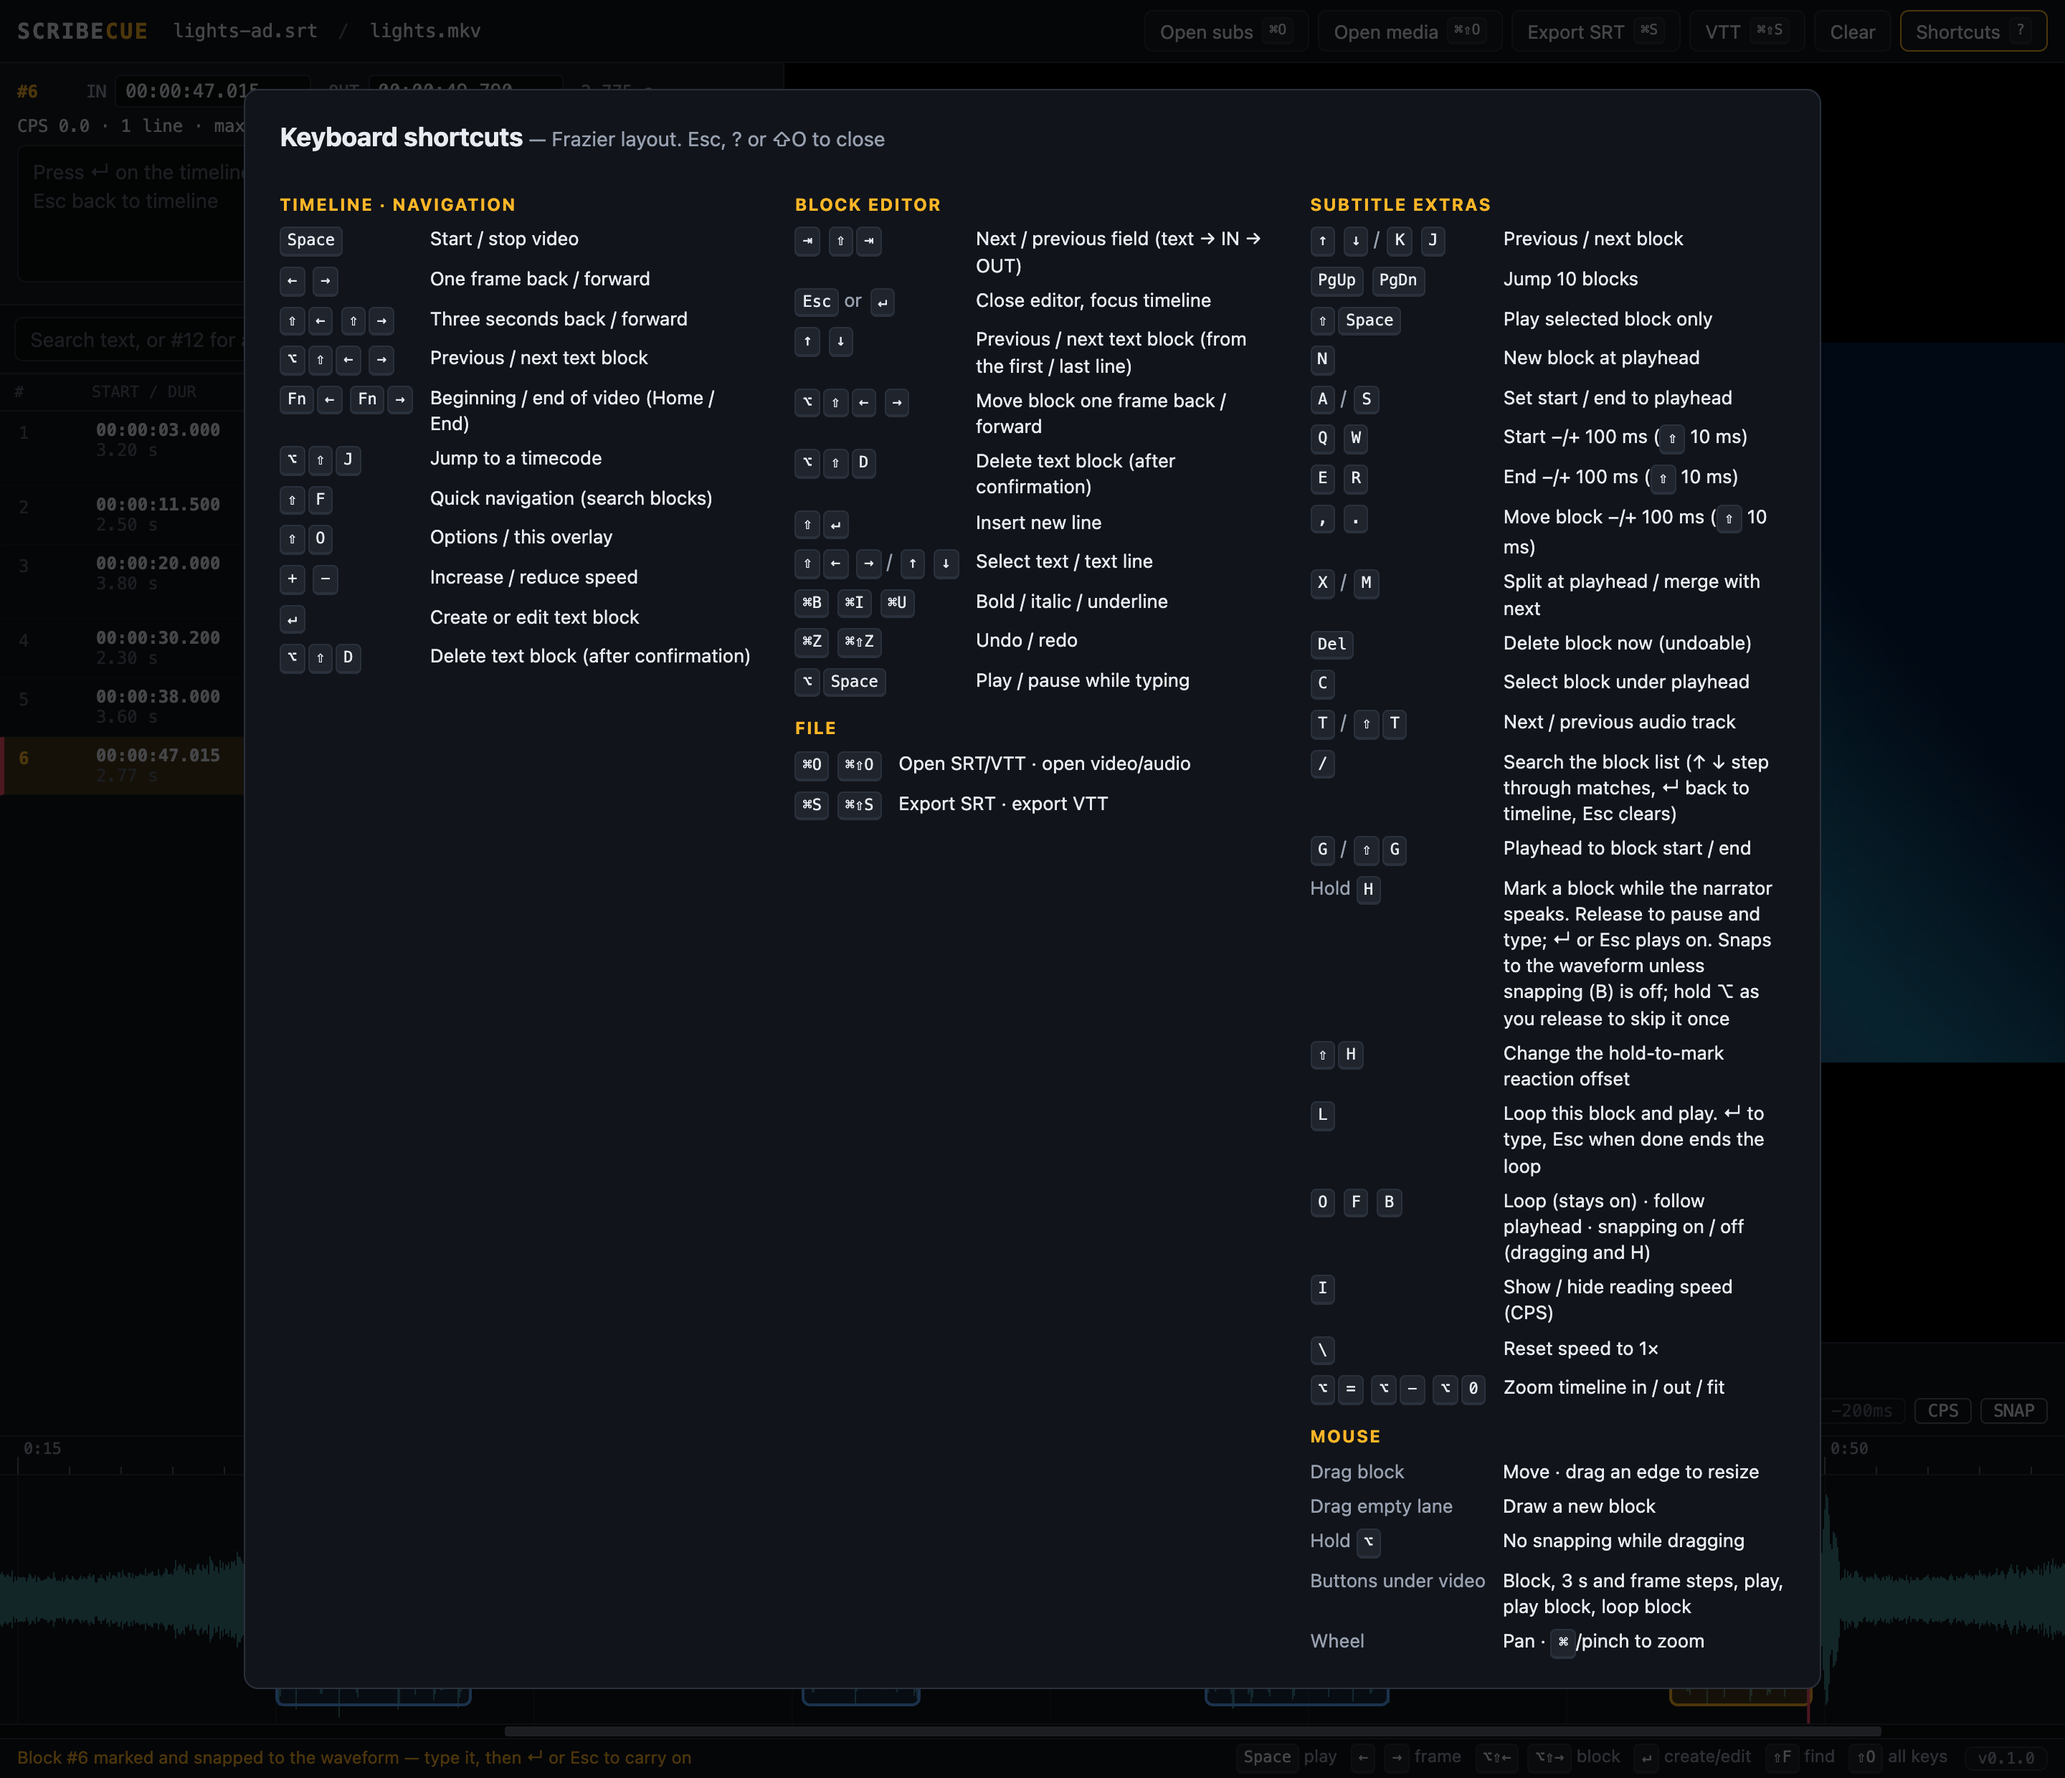
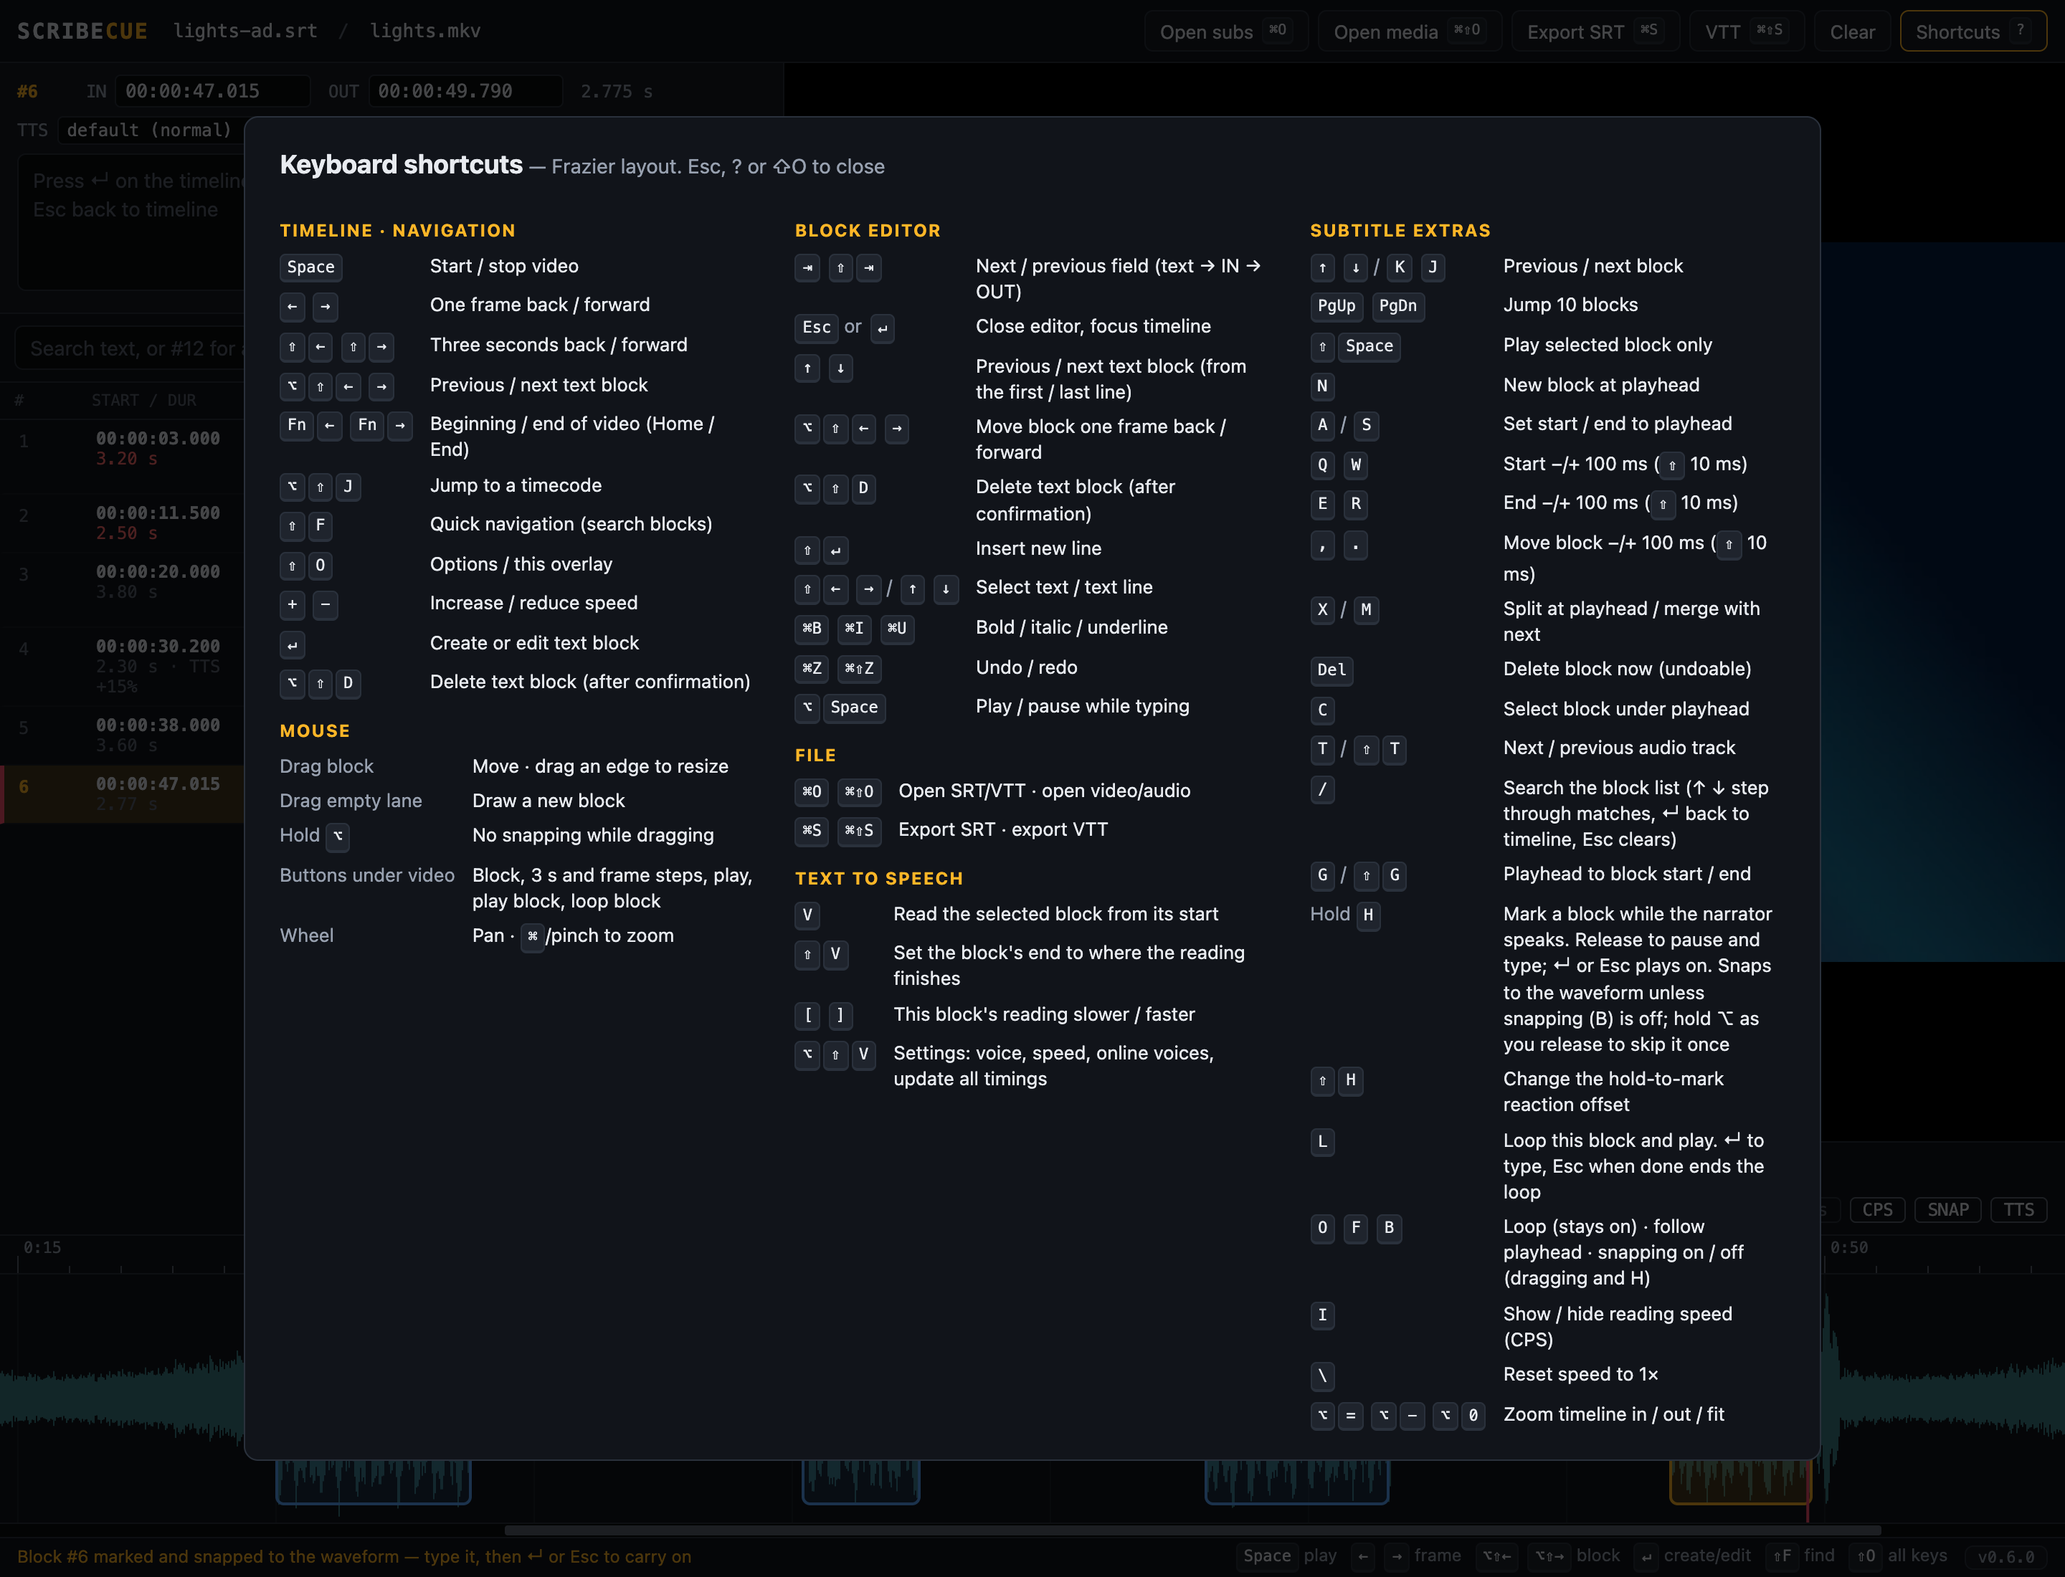
Retake README screenshots with text to speech, and fit the shortcuts overlay
The screenshots now show text to speech turned on: reading times in the
editor, red durations for lines that don't fit, a block with its own
speed, and a new screenshot of the text to speech panel in the README.

The shortcuts overlay had grown too long for its third column, which
cut off the Mouse section. Text to speech keys now have their own
section in the middle column, and Mouse moved to the first column.

diff --git a/app/index.html b/app/index.html
@@ -213,6 +213,14 @@ docker compose up -d --build</code></pre>
             <dt><kbd>↵</kbd></dt><dd>Create or edit text block</dd>
             <dt><kbd>⌥</kbd><kbd>⇧</kbd><kbd>D</kbd></dt><dd>Delete text block (after confirmation)</dd>
           </dl>
+          <h3>Mouse</h3>
+          <dl>
+            <dt>Drag block</dt><dd>Move · drag an edge to resize</dd>
+            <dt>Drag empty lane</dt><dd>Draw a new block</dd>
+            <dt data-pc="Hold &lt;kbd&gt;Alt&lt;/kbd&gt; or &lt;kbd&gt;Ctrl&lt;/kbd&gt;">Hold <kbd>⌥</kbd></dt><dd>No snapping while dragging</dd>
+            <dt>Buttons under video</dt><dd>Block, 3 s and frame steps, play, play block, loop block</dd>
+            <dt>Wheel</dt><dd>Pan · <kbd><span class="mod"></span></kbd>/pinch to zoom</dd>
+          </dl>
         </section>
         <section>
           <h3>Block editor</h3>
@@ -232,6 +240,13 @@ docker compose up -d --build</code></pre>
           <dl>
             <dt><kbd><span class="mod"></span>O</kbd> <kbd><span class="mod"></span>⇧O</kbd></dt><dd>Open SRT/VTT · open video/audio</dd>
             <dt><kbd><span class="mod"></span>S</kbd> <kbd><span class="mod"></span>⇧S</kbd></dt><dd>Export SRT · export VTT</dd>
+          </dl>
+          <h3>Text to speech</h3>
+          <dl>
+            <dt><kbd>V</kbd></dt><dd>Read the selected block from its start</dd>
+            <dt><kbd>⇧</kbd><kbd>V</kbd></dt><dd>Set the block's end to where the reading finishes</dd>
+            <dt><kbd>[</kbd> <kbd>]</kbd></dt><dd>This block's reading slower / faster</dd>
+            <dt><kbd>⌥</kbd><kbd>⇧</kbd><kbd>V</kbd></dt><dd>Settings: voice, speed, online voices, update all timings</dd>
           </dl>
         </section>
         <section>
@@ -256,20 +271,8 @@ docker compose up -d --build</code></pre>
             <dt><kbd>L</kbd></dt><dd>Loop this block and play. ↵ to type, Esc when done ends the loop</dd>
             <dt><kbd>O</kbd> <kbd>F</kbd> <kbd>B</kbd></dt><dd>Loop (stays on) · follow playhead · snapping on / off (dragging and H)</dd>
             <dt><kbd>I</kbd></dt><dd>Show / hide reading speed (CPS)</dd>
-            <dt><kbd>V</kbd></dt><dd>Text to speech: read the selected block from its start</dd>
-            <dt><kbd>⇧</kbd><kbd>V</kbd></dt><dd>Set the block's end to where the reading finishes</dd>
-            <dt><kbd>[</kbd> <kbd>]</kbd></dt><dd>This block's reading slower / faster</dd>
-            <dt><kbd>⌥</kbd><kbd>⇧</kbd><kbd>V</kbd></dt><dd>Text to speech settings (voice, speed, online voices)</dd>
             <dt><kbd>\</kbd></dt><dd>Reset speed to 1×</dd>
             <dt><kbd>⌥</kbd><kbd>=</kbd> <kbd>⌥</kbd><kbd>-</kbd> <kbd>⌥</kbd><kbd>0</kbd></dt><dd>Zoom timeline in / out / fit</dd>
-          </dl>
-          <h3>Mouse</h3>
-          <dl>
-            <dt>Drag block</dt><dd>Move · drag an edge to resize</dd>
-            <dt>Drag empty lane</dt><dd>Draw a new block</dd>
-            <dt data-pc="Hold &lt;kbd&gt;Alt&lt;/kbd&gt; or &lt;kbd&gt;Ctrl&lt;/kbd&gt;">Hold <kbd>⌥</kbd></dt><dd>No snapping while dragging</dd>
-            <dt>Buttons under video</dt><dd>Block, 3 s and frame steps, play, play block, loop block</dd>
-            <dt>Wheel</dt><dd>Pan · <kbd><span class="mod"></span></kbd>/pinch to zoom</dd>
           </dl>
         </section>
       </div>

diff --git a/README.md b/README.md
@@ -103,6 +103,8 @@ Hear your lines read aloud, to check where each one sits and whether it fits bef
 next piece of dialogue. It's off until you turn it on: press `⌥⇧V`, or click `TTS` under
 the video, then tick **Turn on text to speech**.
 
+![The text to speech panel, with voice, speed and Update all timings](docs/screenshots/text-to-speech.png)
+
 | Key | Action |
 | --- | --- |
 | `V` | Read the block from its start, with the video playing. Playback stops at the block's end, or where the reading ends if it runs over |
